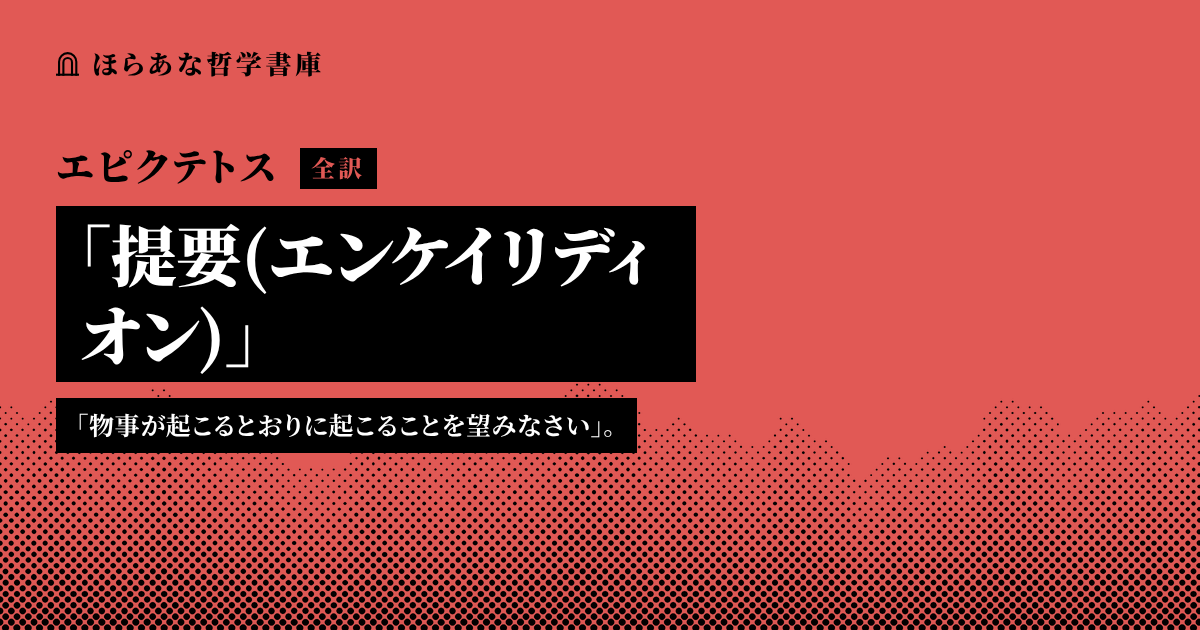
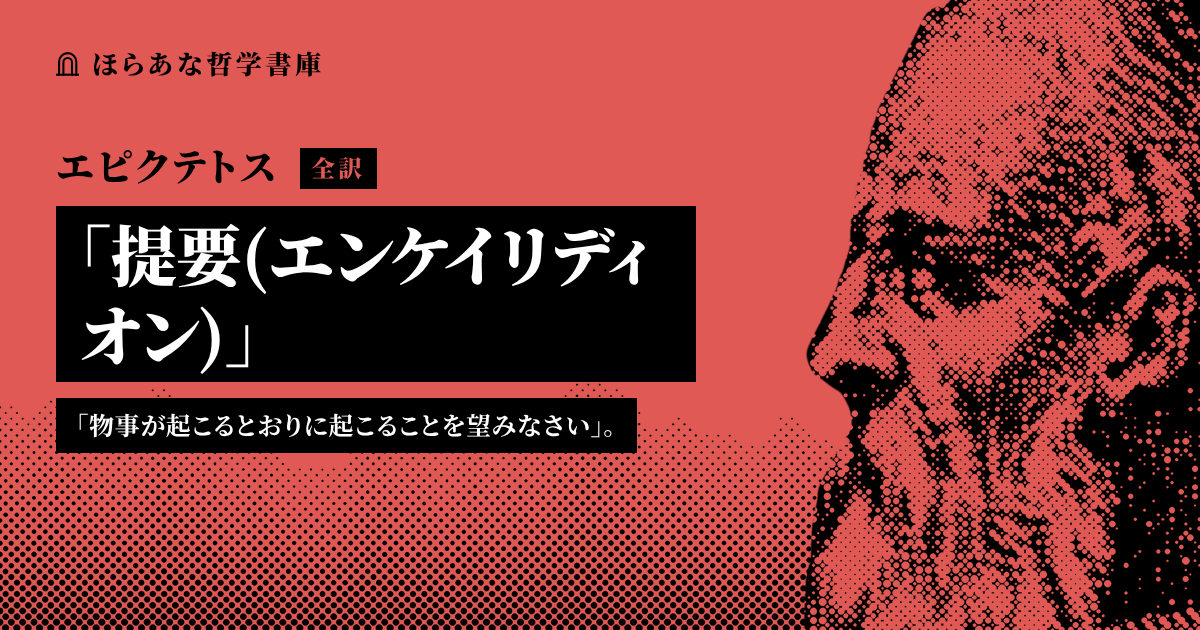
エピクテトスの肖像(網点の絵)を足し、『提要』の表紙と OGP 画像に付ける
Claude-Session: https://claude.ai/code/session_01SC2TMZdWHbSMLXu3f51177

Changed region(s): [[0.6475, 0.0, 1.0, 1.0]]

diff --git a/site.css b/site.css
@@ -269,7 +269,7 @@ footer {
 /* ここから自動生成(_tools/build.mjs) */
 .book-cover[data-cover="plato-apology"] { --cover: #e15955; --len: 8; --alen: 4; --glen: 4; background-image: url(art/plato-cover.png); }
 .book-cover[data-cover="seneca-brevitate"] { --cover: #e15955; --len: 9; --alen: 3; --glen: 4; background-image: url(art/seneca-cover.png); }
-.book-cover[data-cover="epictetus-enchiridion"] { --cover: #e15955; --len: 13; --alen: 6; --glen: 4; }
+.book-cover[data-cover="epictetus-enchiridion"] { --cover: #e15955; --len: 13; --alen: 6; --glen: 4; background-image: url(art/epictetus-cover.png); }
 .book-cover[data-cover="kant-aufklaerung"] { --cover: #139cb6; --len: 6; --alen: 3; --glen: 6; background-image: url(art/kant-cover.png); }
 .book-cover[data-cover="marx-manifest"] { --cover: #10a760; --len: 5; --alen: 10; --glen: 7; background-image: url(art/marx-cover.png); }
 .book-cover[data-cover="freud-difficulty"] { --cover: #dfb100; --len: 9; --alen: 4; --glen: 4; background-image: url(art/freud-cover.png); }
